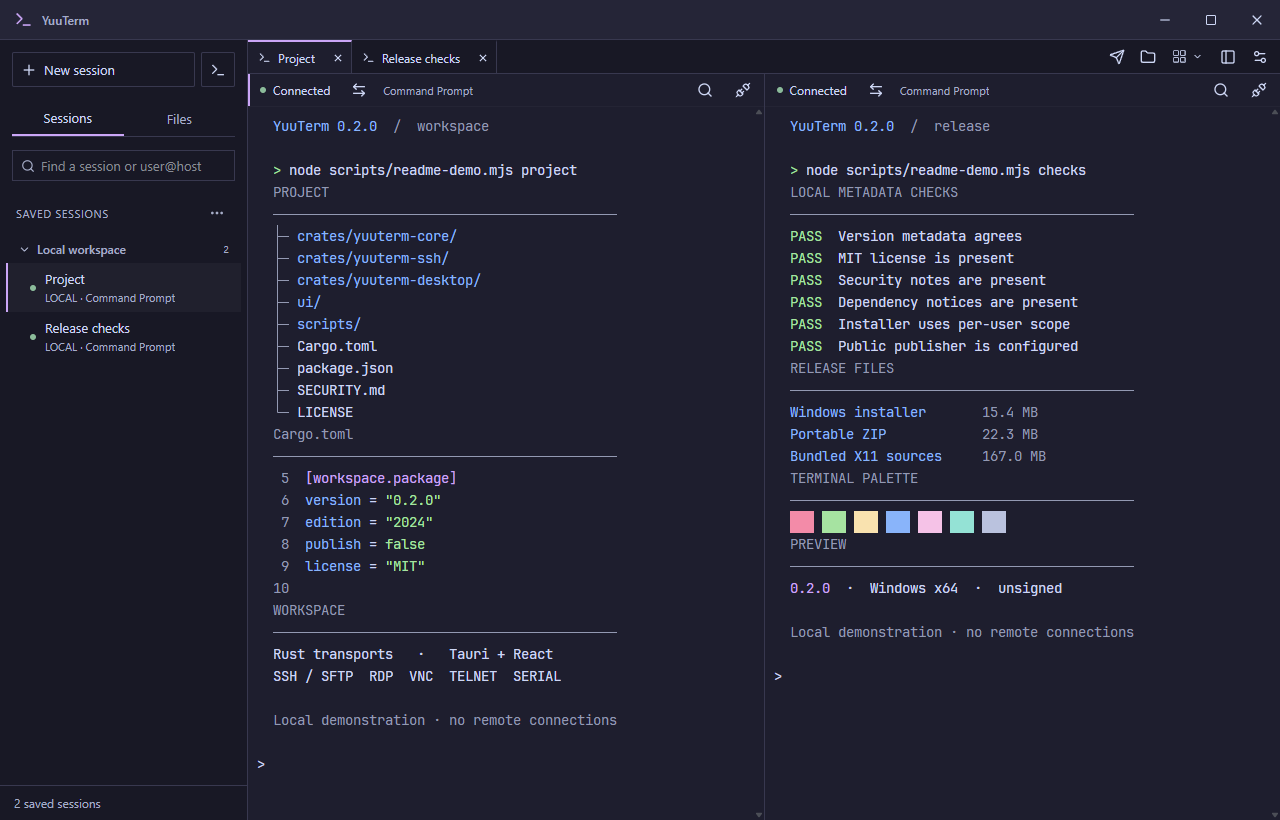
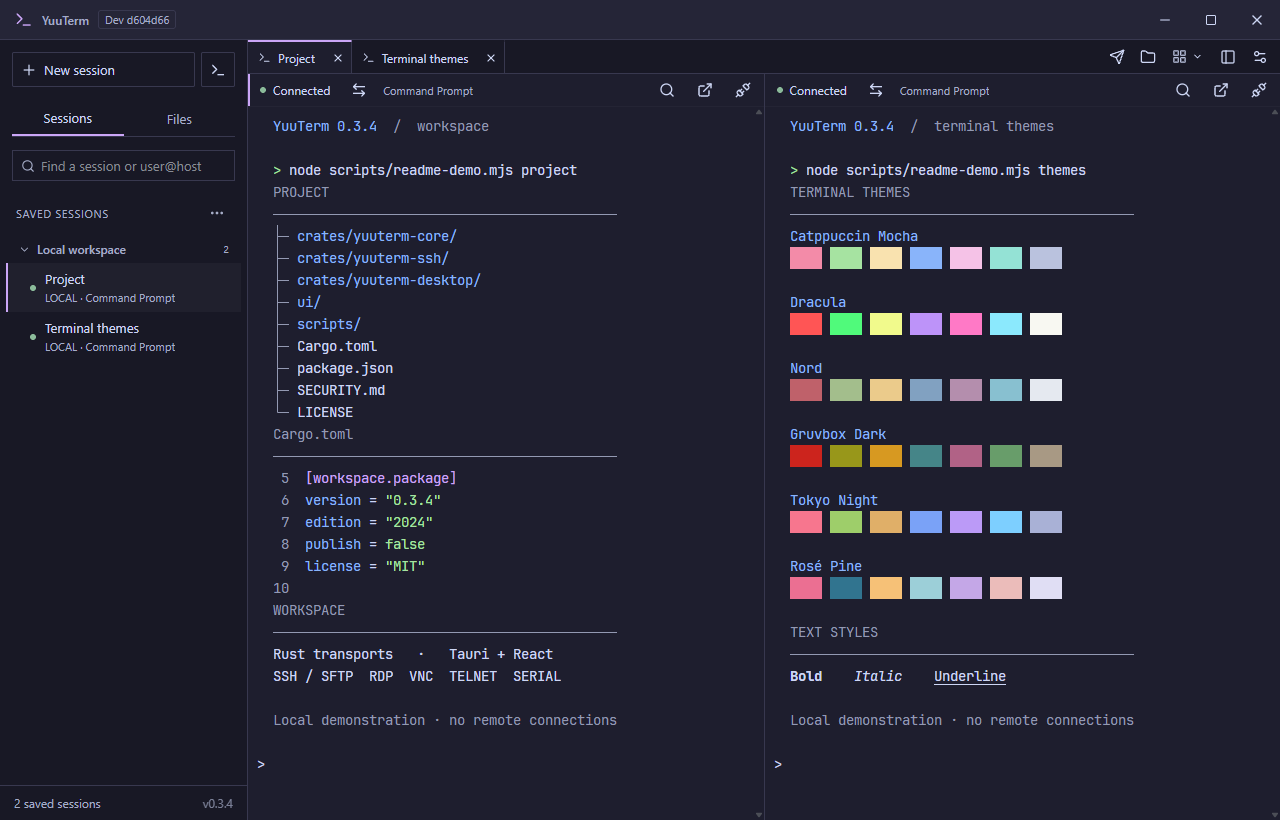
Refresh README

diff --git a/README.md b/README.md
@@ -1,19 +1,32 @@
 # YuuTerm
 
 A terminal and remote session manager for Windows. SSH with a file browser,
-RDP, VNC, Telnet, serial ports and X11 forwarding, all in tabs and split panes
-in one window. SSH, RDP, VNC and Telnet sessions can go through SSH gateways
-(jump hosts).
+RDP, VNC, Telnet, serial ports and local shells, all in one window.
 
-![YuuTerm with two local terminal sessions](docs/images/yuuterm.png)
+![YuuTerm with a project overview and terminal themes in two local sessions](docs/images/yuuterm.png)
 
 This is an early preview and most of it was vibe-coded, so expect bugs.
+
+## Features
+
+- **Sessions:** SSH, RDP, VNC, Telnet, serial (COM) and local shells
+  (PowerShell, Command Prompt, Git Bash, WSL); saved sessions in groups, quick
+  connect from the search field
+- **SSH gateways:** SSH, RDP, VNC and Telnet sessions through jump hosts
+- **SFTP file browser** next to the SSH terminal: upload, download, rename,
+  permissions (rwx/octal), and editing in your own editor with upload on save
+- **X11 forwarding** over SSH with a bundled X server
+- **Layout:** tabs, split panes and pop-out terminal windows
+- **Broadcast:** type into several sessions at once
+- **Terminal:** comes in different themes, with keyword highlighting, search and
+  session logs
+- **Credentials:** passwords in the Windows Credential Manager, SSH agent or key
+  files
 
 ## Download
 
 Get the installer or the portable ZIP from the
-[releases page](https://github.com/welcometopwn/yuuterm/releases). Runs on
-Windows 10 or 11 (x64); so far it has only been tested on Windows 11.
+[releases page](https://github.com/welcometopwn/yuuterm/releases).
 
 The builds aren't signed yet, so SmartScreen will probably warn you about an
 unknown publisher. If WebView2 is missing, Windows asks you to install it.
